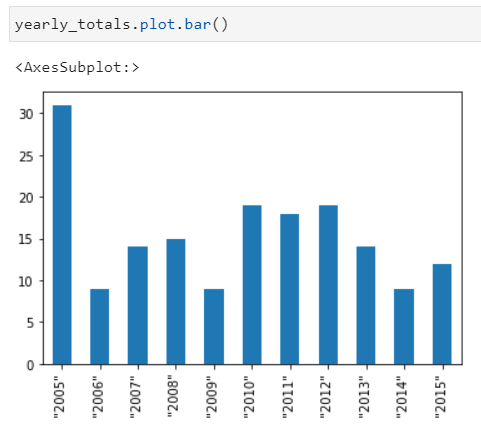
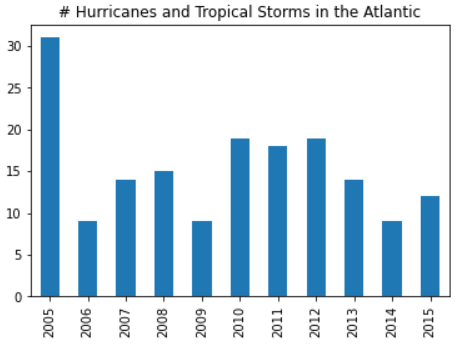
Update

Changed region(s): [[0.0, 0.0, 0.9914, 0.9552]]

diff --git a/_posts/2021-01-23-Composing-Our-First-Jupyter-Notebook.md b/_posts/2021-01-23-Composing-Our-First-Jupyter-Notebook.md
@@ -203,14 +203,22 @@ Let's calculate the total amount of storms in each year with this code:
 ```python
 import numpy as np
 df = data.iloc[:,np.r_[2:len(data.columns)]]
+df.columns = ['2005', '2006', '2007', '2008', '2009', '2010',
+              '2011', '2012', '2013', '2014', '2015']
 yearly_totals = data.sum(axis=0)
 ```
 
-Here, we imported the numpy package, used it to select only the year columns of our dataset (which we renamed to $\text{df}$ for ease of usage), then summed over the 0-axis (columns) to get our totals.
+Here, we imported the numpy package, used it to select only the year columns of our dataset (which we renamed to $\text{df}$ for ease of usage), renamed the column names, then summed over the 0-axis (columns) to get our totals.
 
 If you type `yearly_totals` into a cell below it and run it, you can see the column sums.
 
-Now, let's generate a quick bar plot using the pandas.plot.bar function with the code `yearly_totals.plot.bar()`.
+Now, let's generate a quick bar plot:
+
+```python
+from matplotlib import pyplot as plt
+plt.title('# Hurricanes and Tropical Storms in the Atlantic')
+yearly_totals.plot.bar()
+```
 
 You should see something like this after running the cell:
 
@@ -218,11 +226,11 @@ You should see something like this after running the cell:
 
 #### Additional Formatting
 
-At this point, let's conclude our analysis. Obviously, we can look into some other useful statistics and generate some additional cool plots, but this post was really just about learning the basic.
+At this point, let's conclude our analysis. Obviously, we can look into some other useful statistics and generate some additional cool plots, but this post was really just about learning the basics.
 
 Before we finish up, though, let's make some formatting alterations. First, let's change our title heading to something more meaningful. I went with "Atlantic Hurricanes from 2005-2015".
 
-Then, let's reorganize our code a bit. In my code, I placed the numpy import statement in the top cell, alongside the pandas import statement.
+Then, let's reorganize our code a bit. In my code, I placed the numpy and matplotlib import statements in the top cell, alongside the pandas import statement.
 
 To add further embellishment, we can even add images to our notebook. I decided to place <a href = "https://www.cummins.com/sites/default/files/styles/newsroom_hero_image/public/images/newsroom_article/Cummins%20-%202020%20Hurricane%20Season%20-%20What%20to%20Expect%20-%20Web.jpg?itok=OIDc9N_N">this image</a> right below our title heading to show what our data represent.
 
@@ -240,7 +248,7 @@ Here's how mine turned out:
 
 Looks pretty good for a first notebook.
 
-For extra credit, try adding some HTML tags to your markdown cells to provide even more elaborate formatting. Additionally, you might want to see if you can go through the pandas documentation to find out how to adjust the year labels in our bar graph to not contain quotation marks.
+For extra credit, try adding some HTML tags to your markdown cells to provide even more elaborate formatting.
 
 Other than that, our first notebook is complete. Let's see how we can share our analysis with other people.
 
